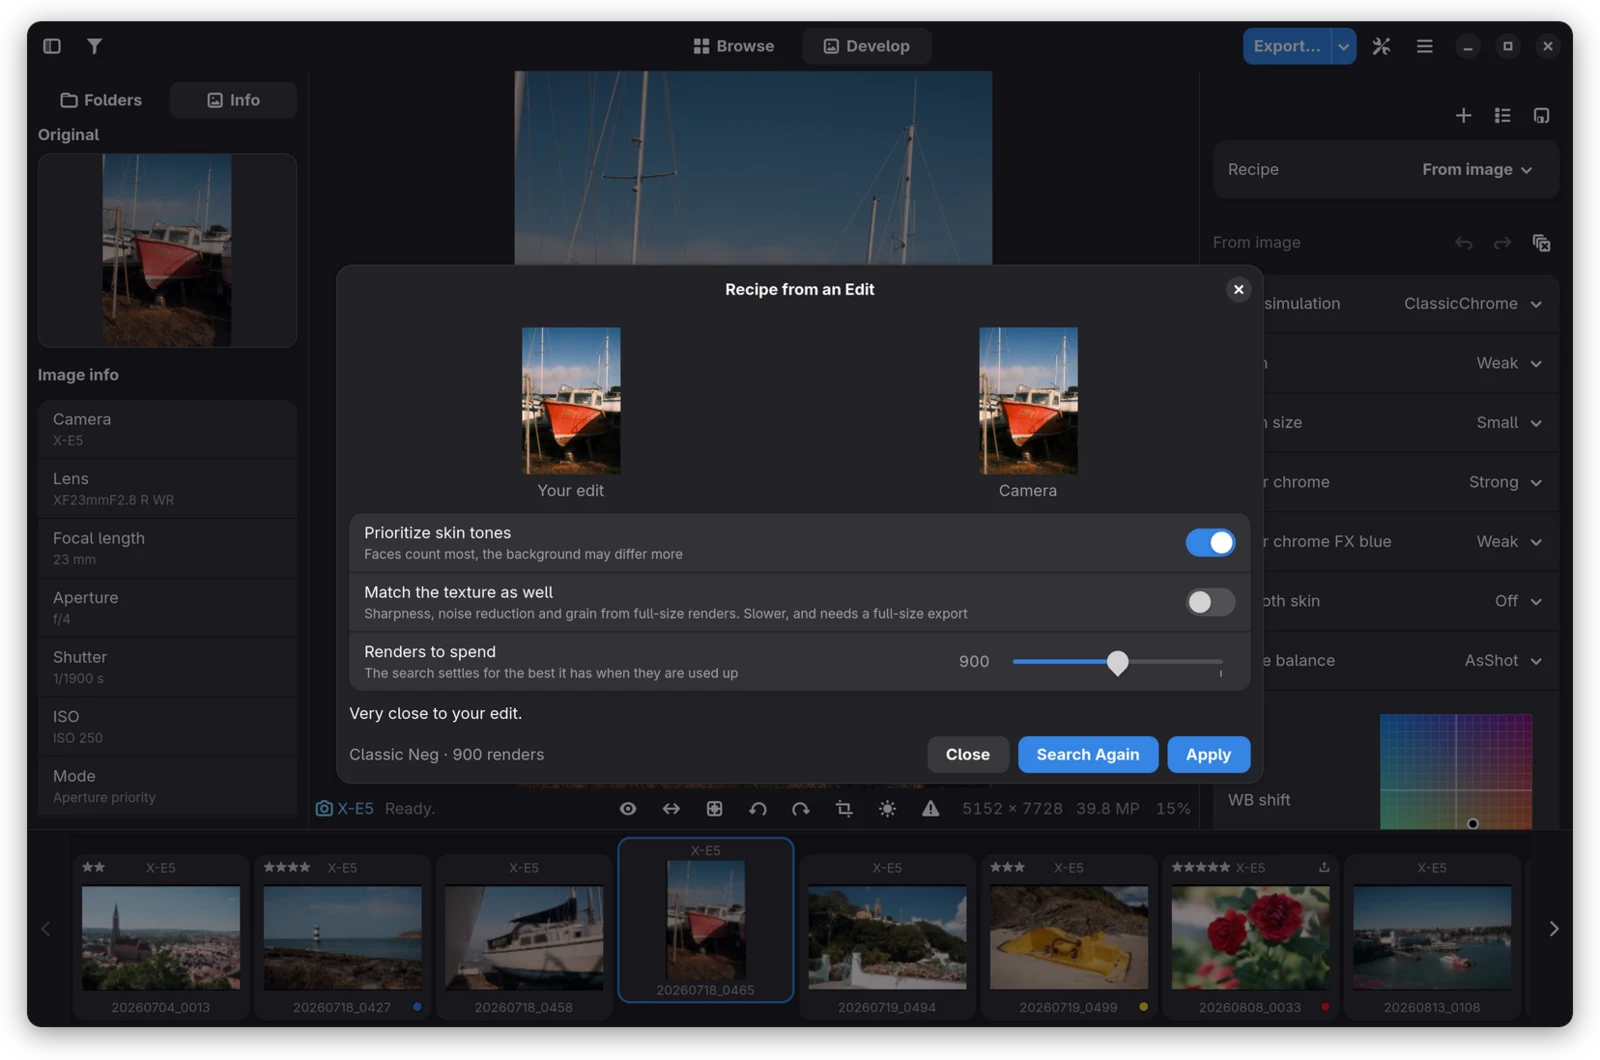
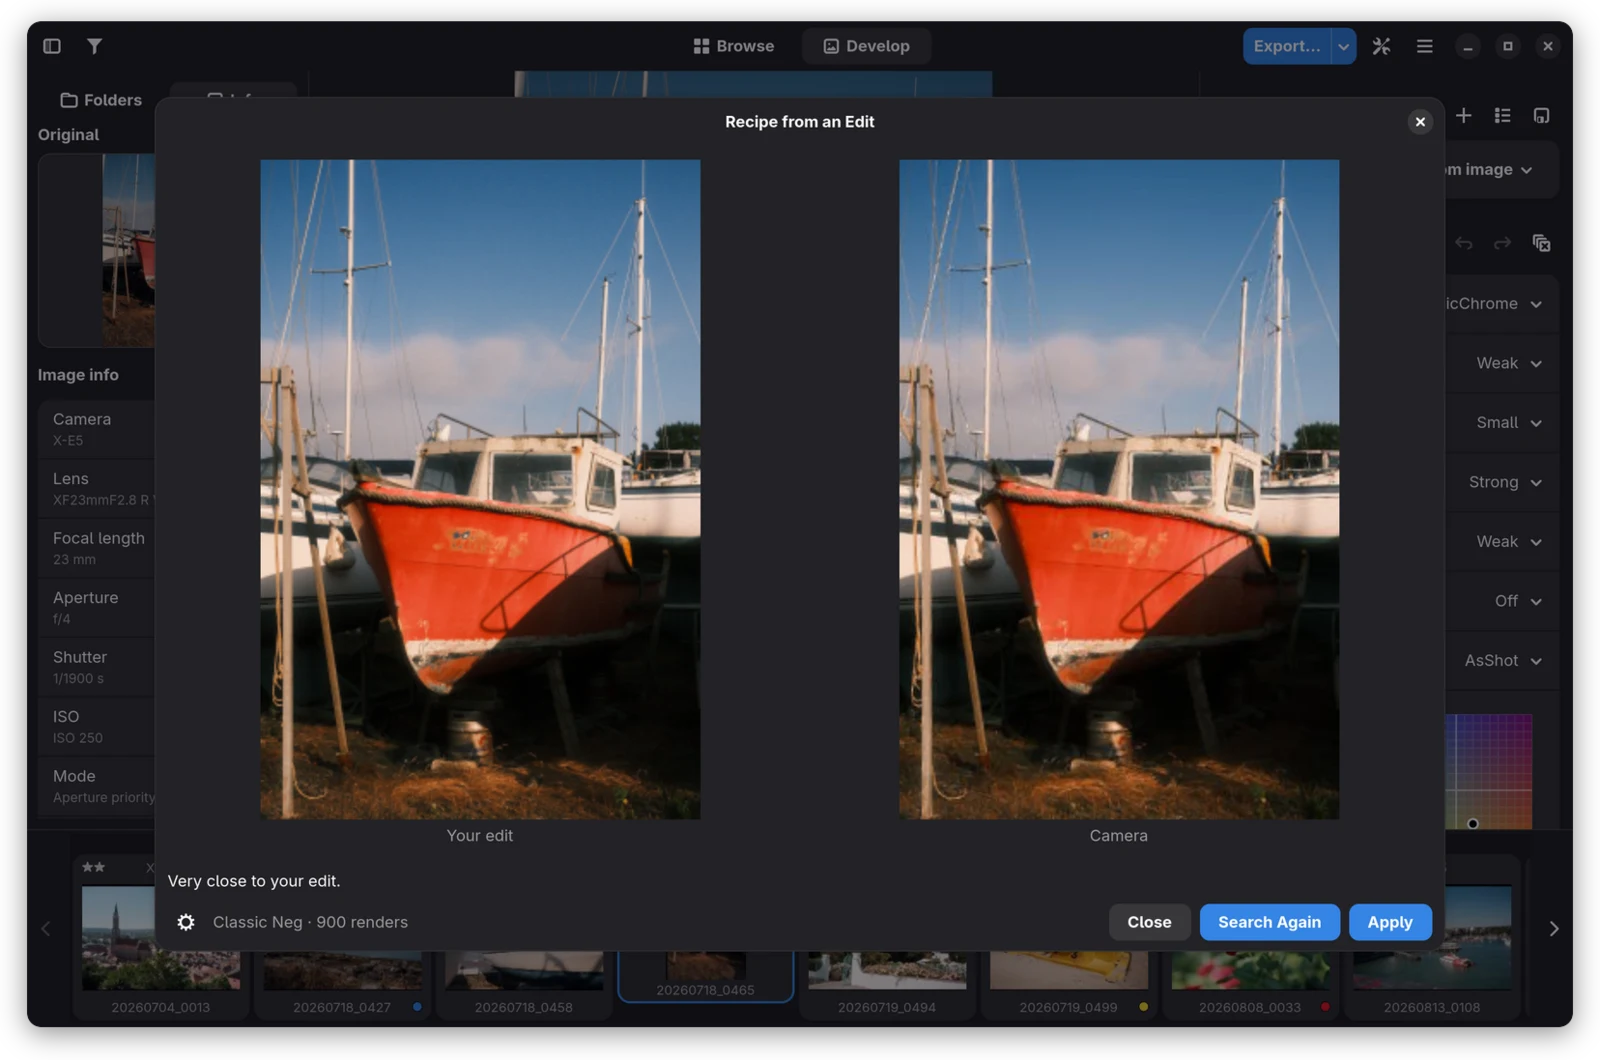
chore: included colorspace handling and updated screenshots

diff --git a/src/grawji/imaging/colorspace.py b/src/grawji/imaging/colorspace.py
@@ -1,0 +1,114 @@
+"""Tell a picture's color space and bring AdobeRGB pixels to sRGB."""
+
+from __future__ import annotations
+
+import struct
+from typing import TYPE_CHECKING
+
+import numpy as np
+
+if TYPE_CHECKING:
+    from numpy.typing import NDArray
+
+SRGB = "sRGB"
+ADOBE_RGB = "AdobeRGB"
+# The EXIF interoperability index of an AdobeRGB JPEG (DCF option file).
+ADOBE_RGB_INTEROP = "R03"
+# The colorant tags of a profile, as D50 XYZ, for the two spaces.
+_PRIMARIES = {
+    SRGB: (
+        (0.4361, 0.2225, 0.0139),
+        (0.3851, 0.7169, 0.0971),
+        (0.1431, 0.0606, 0.7141),
+    ),
+    ADOBE_RGB: (
+        (0.6097, 0.3111, 0.0195),
+        (0.2052, 0.6257, 0.0609),
+        (0.1492, 0.0632, 0.7448),
+    ),
+}
+_TOLERANCE = 0.02
+_HEADER = 128
+_TAG = 12
+_ADOBE_GAMMA = 563 / 256
+_SRGB_KNEE = 0.0031308
+# AdobeRGB to XYZ then XYZ to linear sRGB, both for D65.
+_ADOBE_TO_XYZ = np.array(
+    [
+        [0.5767309, 0.1855540, 0.1881852],
+        [0.2973769, 0.6273491, 0.0752741],
+        [0.0270343, 0.0706872, 0.9911085],
+    ]
+)
+_XYZ_TO_SRGB = np.array(
+    [
+        [3.2404542, -1.5371385, -0.4985314],
+        [-0.9692660, 1.8760108, 0.0415560],
+        [0.0556434, -0.2040259, 1.0572252],
+    ]
+)
+_ADOBE_TO_SRGB = (_XYZ_TO_SRGB @ _ADOBE_TO_XYZ).astype(np.float32)
+
+
+def profile_space(icc: bytes) -> str | None:
+    """The space an ICC profile describes."""
+    found = _colorants(icc)
+    if found is None:
+        return None
+    for space, wanted in _PRIMARIES.items():
+        if all(
+            abs(a - b) <= _TOLERANCE
+            for have, want in zip(found, wanted, strict=True)
+            for a, b in zip(have, want, strict=True)
+        ):
+            return space
+    return None
+
+
+def space_of(icc: bytes | None, interop: str | None) -> str:
+    """A JPEG's color space from its profile."""
+    if icc:
+        space = profile_space(icc)
+        if space is not None:
+            return space
+    if interop is not None and interop.strip() == ADOBE_RGB_INTEROP:
+        return ADOBE_RGB
+    return SRGB
+
+
+def to_srgb(rgb: NDArray[np.uint8], space: str) -> NDArray[np.uint8]:
+    """The pixels as sRGB, converted from AdobeRGB where that is the space."""
+    if space != ADOBE_RGB:
+        return rgb
+    linear = (rgb[..., :3].astype(np.float32) / 255.0) ** _ADOBE_GAMMA
+    srgb_linear = np.clip(linear @ _ADOBE_TO_SRGB.T, 0.0, 1.0)
+    encoded = np.where(
+        srgb_linear <= _SRGB_KNEE,
+        srgb_linear * 12.92,
+        1.055 * np.power(srgb_linear, 1 / 2.4) - 0.055,
+    )
+    return np.asarray((encoded * 255.0).round().astype(np.uint8))
+
+
+def _colorants(
+    icc: bytes,
+) -> tuple[tuple[float, ...], tuple[float, ...], tuple[float, ...]] | None:
+    """The red, green and blue colorant XYZ values of a profile."""
+    try:
+        (count,) = struct.unpack(">I", icc[_HEADER : _HEADER + 4])
+        tags = {}
+        for index in range(count):
+            start = _HEADER + 4 + _TAG * index
+            signature, offset, _size = struct.unpack(
+                ">4sII", icc[start : start + _TAG]
+            )
+            if signature in (b"rXYZ", b"gXYZ", b"bXYZ"):
+                tags[signature] = tuple(
+                    value / 65536
+                    for value in struct.unpack(
+                        ">iii", icc[offset + 8 : offset + 20]
+                    )
+                )
+        return tags[b"rXYZ"], tags[b"gXYZ"], tags[b"bXYZ"]
+    except (KeyError, struct.error):
+        return None

diff --git a/tests/imaging/test_colorspace.py b/tests/imaging/test_colorspace.py
@@ -1,0 +1,77 @@
+"""Tests for telling and converting an edit's color space."""
+
+from __future__ import annotations
+
+import struct
+
+import numpy as np
+
+from grawji.imaging import colorspace
+
+
+def profile(*colorants: tuple[float, float, float]) -> bytes:
+    """A bare ICC profile carrying red, green and blue colorants."""
+    tags = []
+    body = b""
+    base = 128 + 4 + 12 * len(colorants)
+    for signature, xyz in zip(
+        (b"rXYZ", b"gXYZ", b"bXYZ"), colorants, strict=True
+    ):
+        data = b"XYZ \0\0\0\0" + struct.pack(
+            ">iii", *(round(v * 65536) for v in xyz)
+        )
+        tags.append(
+            struct.pack(">4sII", signature, base + len(body), len(data))
+        )
+        body += data
+    return b"\0" * 128 + struct.pack(">I", len(tags)) + b"".join(tags) + body
+
+
+ADOBE = profile(
+    (0.6097, 0.3111, 0.0195),
+    (0.2052, 0.6257, 0.0609),
+    (0.1492, 0.0632, 0.7448),
+)
+SRGB = profile(
+    (0.4361, 0.2225, 0.0139),
+    (0.3851, 0.7169, 0.0971),
+    (0.1431, 0.0606, 0.7141),
+)
+PROPHOTO = profile(
+    (0.7977, 0.2880, 0.0), (0.1352, 0.7119, 0.0), (0.0313, 0.0001, 0.8249)
+)
+
+
+def test_a_profile_is_told_by_its_colorants() -> None:
+    """Both sRGB and AdobeRGB are recognized, anything else is not."""
+    assert colorspace.profile_space(ADOBE) == colorspace.ADOBE_RGB
+    assert colorspace.profile_space(SRGB) == colorspace.SRGB
+    assert colorspace.profile_space(PROPHOTO) is None
+    assert colorspace.profile_space(b"junk") is None
+
+
+def test_the_profile_wins_over_the_exif_flag() -> None:
+    """A profile decides, the EXIF flag only speaks without one."""
+    assert colorspace.space_of(ADOBE, "R98") == colorspace.ADOBE_RGB
+    assert colorspace.space_of(SRGB, "R03") == colorspace.SRGB
+    assert colorspace.space_of(None, "R03") == colorspace.ADOBE_RGB
+    assert colorspace.space_of(PROPHOTO, "R03") == colorspace.ADOBE_RGB
+    assert colorspace.space_of(None, "R98") == colorspace.SRGB
+    assert colorspace.space_of(None, None) == colorspace.SRGB
+
+
+def test_adobe_rgb_pixels_come_over_to_srgb() -> None:
+    """Neutrals stay neutral, saturated colors grow, sRGB passes through."""
+    pixels = np.array(
+        [[[128, 128, 128], [0, 255, 0], [100, 200, 100], [255, 255, 255]]],
+        np.uint8,
+    )
+    assert colorspace.to_srgb(pixels, colorspace.SRGB) is pixels
+    out = colorspace.to_srgb(pixels, colorspace.ADOBE_RGB)
+    assert out.dtype == np.uint8
+    gray = out[0, 0]
+    assert abs(int(gray[0]) - int(gray[1])) <= 1
+    assert abs(int(gray[1]) - int(gray[2])) <= 1
+    assert tuple(out[0, 1]) == (0, 255, 0)
+    assert int(out[0, 2, 1]) - int(out[0, 2, 0]) > 100
+    assert tuple(out[0, 3]) == (255, 255, 255)

diff --git a/docs/features.md b/docs/features.md
@@ -115,12 +115,10 @@ count as they are.
 The look is judged at a small size, where sharpness, noise reduction
 and grain are invisible, so those come back neutral. Switch on **Match
 the texture as well** and the search ends with a pass on full-size
-renders that settles them too. It takes a minute longer and only tells
-something from a full-size export.
+renders that settles them too.
 
 **Renders to spend** is how long the search may take. When they are
-used up it settles for the best it has, and the time shown counts down
-from the start instead of growing. The slider's top means no limit.
+used up it settles for the best it has.
 
 ## Browse, rate and organize
 
